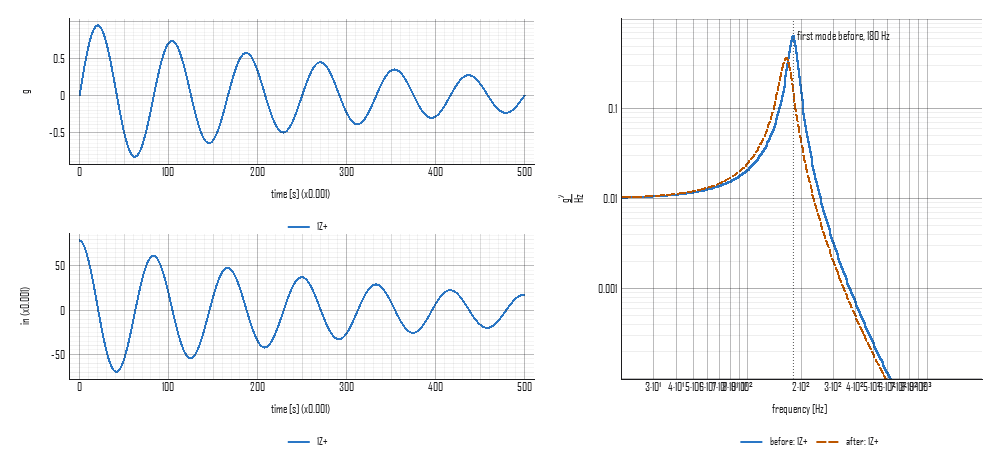
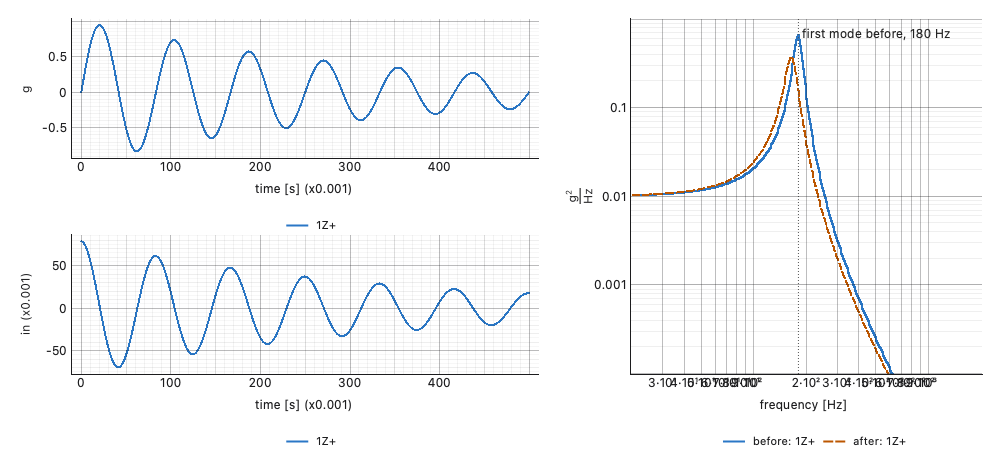
Plot composition: pin is pin_range, and the replication fit draws in a panel
pin is renamed pin_range throughout (definition, __all__, guide,
tests, the figure script). compose's theme defaults to light, not the
application's; figure_plots reads row by row, left to right within a
row. pin_range drops a disableAutoRange that setRange already does.

build_replication_fit set its row stretch through layout.ci, which a
nested panel does not have; it now uses the panel's own grid, as the
signature and transmissibility builders do, with a test drawing it
into a composed figure's panel. A test pins that a failed build still
closes the figure's widget, which empties its scene. The guide's
figure is re-rendered.

diff --git a/tests/test_plot_composition.py b/tests/test_plot_composition.py
@@ -1,7 +1,7 @@
 """Composing a figure of one's own from a script.
 
-`compose`, `as_series`, `figure_plots`, `to_view` and `pin` are the
-public way to draw what the package has no single view for: several
+`compose`, `as_series`, `figure_plots`, `to_view` and `pin_range` are
+the public way to draw what the package has no single view for: several
 readings on one axis, marks and words over them, panels side by side,
 written to a file with no window. Each test pins the thing a figure
 script depends on: the size written, the theme's ground, the plot found
@@ -24,7 +24,7 @@ from visualdynamics.plot import (
     build_plots,
     compose,
     figure_plots,
-    pin,
+    pin_range,
     plot_series,
     to_view,
 )
@@ -170,6 +170,28 @@ def test_the_frequency_axis_is_put_back_when_the_build_fails(qt_app,
     with pytest.raises(RuntimeError, match='the script broke'):
         compose(build, path=tmp_path / 'a.png', frequency_axis='log')
     assert frequency_axis() == before
+
+
+def test_a_build_that_fails_closes_the_figure_it_drew_in(qt_app,
+                                                        tmp_path):
+    """The widget is closed whatever the build does, which empties its
+    scene: while the traceback is held (by a REPL, or here by
+    `pytest.raises`) it holds the widget, and without the close every
+    plot drawn before the failure stayed alive with it."""
+    seen = []
+
+    def build(layout):
+        build_plots(layout, as_series([psd()]))
+        seen.append((layout, len(layout.scene().items())))
+        raise RuntimeError('the script broke')
+
+    with pytest.raises(RuntimeError, match='the script broke'):
+        compose(build, path=tmp_path / 'a.png', size=(300, 200))
+    (widget, drawn_items), = seen
+    assert drawn_items > 0
+    assert widget.items() == []
+    assert widget.closed
+    assert not any(tmp_path.iterdir())
 
 
 def test_a_frequency_axis_that_cannot_hold_is_refused(qt_app, tmp_path):
@@ -375,14 +397,14 @@ def test_a_point_with_no_place_on_the_plot_is_refused(qt_app):
     drawn(build)
 
 
-# ---- pin: one scale for panels meant to be compared ---------------------
+# ---- pin_range: one scale for panels meant to be compared ---------------
 
 
 def test_a_pinned_range_opens_where_it_is_told(qt_app):
     def build(layout):
         build_plots(layout, as_series([psd()]))
         plot = figure_plots(layout)[0]
-        pin(plot, x=(50.0, 1000.0), y=(1e-4, 1.0))
+        pin_range(plot, x=(50.0, 1000.0), y=(1e-4, 1.0))
         view = plot.getViewBox()
         return (view.viewRange(), view.state['limits'],
                 view.state['autoRange'])
@@ -402,7 +424,7 @@ def test_a_range_wider_than_the_data_is_not_clamped_back(qt_app):
     def build(layout):
         build_plots(layout, as_series([psd(0.01)]))
         plot = figure_plots(layout)[0]
-        pin(plot, y=(1e-6, 10.0))
+        pin_range(plot, y=(1e-6, 10.0))
         return plot.getViewBox().viewRange()[1]
 
     np.testing.assert_allclose(drawn(build), [-6.0, 1.0])
@@ -413,7 +435,7 @@ def test_one_axis_pinned_leaves_the_other_alone(qt_app):
         build_plots(layout, as_series([psd()]))
         plot = figure_plots(layout)[0]
         before = plot.getViewBox().state['limits']['yLimits']
-        pin(plot, x=(100.0, 200.0))
+        pin_range(plot, x=(100.0, 200.0))
         return before, plot.getViewBox().state
 
     before, state = drawn(build)
@@ -435,10 +457,10 @@ def test_a_range_that_cannot_be_pinned_is_refused(qt_app, span, words):
         plot = figure_plots(layout)[0]
         before = plot.getViewBox().viewRange()
         if span is None:
-            pin(plot)     # nothing asked, nothing changed
+            pin_range(plot)   # nothing asked, nothing changed
         else:
             with pytest.raises(ValueError, match=words):
-                pin(plot, y=span)
+                pin_range(plot, y=span)
         assert plot.getViewBox().viewRange() == before
 
     drawn(build)

diff --git a/src/visualdynamics/plot/__init__.py b/src/visualdynamics/plot/__init__.py
@@ -2803,7 +2803,7 @@ def compose(build: Callable[[Any], Any], *, theme: Any = None,
         def build(layout):
             build_plots(layout, as_series([psd, specification]))
             plot = figure_plots(layout, 'acceleration**2/frequency')[0]
-            pin(plot, x=(20.0, 2000.0))
+            pin_range(plot, x=(20.0, 2000.0))
 
         compose(build, path='figure.png', theme='light', size=(900, 460))
 
@@ -2825,8 +2825,7 @@ def compose(build: Callable[[Any], Any], *, theme: Any = None,
     build : callable
         Called once with the layout to draw into.
     theme : str or dict, optional
-        'light' or 'dark', or a resolved theme; the application's when
-        omitted.
+        'light' or 'dark', or a resolved theme; light when omitted.
     path : str or path-like, optional
         Where to write the figure. The extension picks the format: .svg,
         or .png (at `EXPORT_DPI` when that is set) or another image
@@ -2887,9 +2886,9 @@ def compose(build: Callable[[Any], Any], *, theme: Any = None,
 def figure_plots(layout: Any, dimension: str | None = None) -> list[Any]:
     """The plots in a figure, in reading order; or those of one quantity.
 
-    Reading order is top to bottom, then left to right, and a nested
-    panel's plots are read where the panel sits. A legend is not a plot
-    and is left out.
+    Reading order is row by row, left to right within a row, and a
+    nested panel's plots are read where the panel sits. A legend is not
+    a plot and is left out.
 
     `build_plots` stacks one plot per quantity, so the plot to draw a
     mark on is found by what it draws, not by its row. With `dimension`
@@ -3005,8 +3004,8 @@ def _view_axis(values: ArrayLike | None, log: bool, name: str) -> Any:
     return float(array) if array.ndim == 0 else array
 
 
-def pin(plot: Any, x: tuple[float, float] | None = None,
-        y: tuple[float, float] | None = None) -> None:
+def pin_range(plot: Any, x: tuple[float, float] | None = None,
+              y: tuple[float, float] | None = None) -> None:
     """Fix a plot's range, in data units, so it opens where it is told.
 
     Panels meant to be compared need one scale. `build_plots` frames
@@ -3045,7 +3044,6 @@ def pin(plot: Any, x: tuple[float, float] | None = None,
                              f'not below {high:g}')
         lo, hi = float(ends[0]), float(ends[1])
         view.setLimits(**{f'{axis}Min': lo, f'{axis}Max': hi})
-        view.disableAutoRange(axis=axis)
         if axis == 'x':
             plot.setXRange(lo, hi, padding=0)
         else:
@@ -5274,8 +5272,8 @@ def plot_replication_segments(measured: Any, specification: Any,
 
 
 __all__ = ['MAX_RECORDS', 'as_series', 'axis_label', 'build_photos',
-           'build_plot', 'build_plots', 'compose', 'figure_plots', 'pin',
-           'plot_bars', 'plot_cmif', 'plot_coherence_map', 'plot_comparison',
-           'plot_data', 'plot_mac', 'plot_photos', 'plot_replication',
-           'plot_replication_segments',
+           'build_plot', 'build_plots', 'compose', 'figure_plots',
+           'pin_range', 'plot_bars', 'plot_cmif', 'plot_coherence_map',
+           'plot_comparison', 'plot_data', 'plot_mac', 'plot_photos',
+           'plot_replication', 'plot_replication_segments',
            'plot_series', 'save_plot', 'to_view']

diff --git a/tests/test_replication_fit.py b/tests/test_replication_fit.py
@@ -668,6 +668,27 @@ def test_the_view_draws_to_a_file(qt_app, tmp_path):
     assert path.stat().st_size > 2000
 
 
+def test_the_view_draws_into_a_panel_of_a_composed_figure(qt_app,
+                                                          tmp_path):
+    """A nested panel is a GraphicsLayout with no `ci`; the rows'
+    shares of the height are set on the panel's own grid."""
+    from visualdynamics.plot import compose
+    from visualdynamics.plot.replication_fit import build_replication_fit
+
+    fit = replication_fit(tone(), rating(), cutoffs=(2.0,))
+    seen = []
+
+    def build(layout):
+        panel = layout.addLayout(row=0, col=1)
+        build_replication_fit(panel, fit, 2.0)
+        seen.append((panel.layout.rowStretchFactor(0),
+                     panel.layout.rowStretchFactor(1),
+                     len(panel.items)))
+
+    compose(build, path=tmp_path / 'panel.png', size=(600, 400))
+    assert seen == [(3, 2, 4)]
+
+
 def test_the_view_refuses_a_cutoff_it_was_not_given(qt_app):
     from visualdynamics.plot import plot_replication_fit
 

diff --git a/tools/make_concept_figures.py b/tools/make_concept_figures.py
@@ -1024,7 +1024,7 @@ def plot_composition():
         compose,
         data_curves,
         figure_plots,
-        pin,
+        pin_range,
         to_view,
     )
 
@@ -1054,7 +1054,7 @@ def plot_composition():
         build_plots(right, as_series([('before', before), ('after', after)]),
                     theme='light')
         asd = figure_plots(right, 'acceleration**2/frequency')[0]
-        pin(asd, x=(20.0, 2000.0), y=(1e-4, 1.0))
+        pin_range(asd, x=(20.0, 2000.0), y=(1e-4, 1.0))
         _, dashed = data_curves(asd)
         pen = pg.mkPen(dashed.opts['pen'])
         pen.setStyle(Qt.PenStyle.DashLine)

diff --git a/src/visualdynamics/plot/replication_fit.py b/src/visualdynamics/plot/replication_fit.py
@@ -191,8 +191,10 @@ def build_replication_fit(layout: Any, fit: Any, cutoff: Any = ..., *,
         if case.cutoff is not None:
             plot.addItem(pg.InfiniteLine(pos=case.cutoff, angle=90,
                                          pen=chosen), ignoreBounds=True)
-    layout.ci.layout.setRowStretchFactor(0, 3)
-    layout.ci.layout.setRowStretchFactor(1, 2)
+    # a nested panel (`compose`) is a GraphicsLayout with no `ci`
+    grid = getattr(layout, 'ci', layout).layout
+    grid.setRowStretchFactor(0, 3)
+    grid.setRowStretchFactor(1, 2)
     return case
 
 

diff --git a/docs/guide/plot-composition.md b/docs/guide/plot-composition.md
@@ -22,19 +22,20 @@ legends and theme, and is written to a file with no window.
   records)`; names prefix the legend entries when more than one object
   is named.
 - **`figure_plots(layout, dimension=None)`** lists the plots in a
-  figure, top to bottom and left to right, or only those drawing one
-  quantity: `figure_plots(layout, 'length')` is the displacement plot of
-  a stack, wherever it landed.
+  figure, row by row and left to right within a row (a nested panel's
+  plots where the panel sits), or only those drawing one quantity:
+  `figure_plots(layout, 'length')` is the displacement plot of a
+  stack, wherever it landed.
 - **`to_view(plot, x=..., y=...)`** converts values in display units to
   the coordinates the plot's view holds. On a log axis the view works in
   decades, so a line, a label or a marker placed without the conversion
   lands at the logarithm of where it was meant to go. A curve added with
   `plot.plot` needs no conversion; pyqtgraph converts it.
-- **`pin(plot, x=(low, high), y=(low, high))`** fixes the range a plot
-  opens at, in display units. A plot drawn by `build_plots` limits zoom
-  and pan to its own data, and a range set straight on the plot is
-  clamped back inside that frame; `pin` makes the pinned range the
-  plot's limit instead.
+- **`pin_range(plot, x=(low, high), y=(low, high))`** fixes the range
+  a plot opens at, in display units. A plot drawn by `build_plots`
+  limits zoom and pan to its own data, and a range set straight on the
+  plot is clamped back inside that frame; `pin_range` makes the pinned
+  range the plot's limit instead.
 
 Panels side by side are nested layouts: `layout.addLayout(row=0,
 col=1)` makes a panel, and `build_plots` draws into it as into a whole
@@ -49,7 +50,8 @@ import pyqtgraph as pg
 from PySide6.QtCore import Qt
 
 from visualdynamics.plot import (as_series, build_plots, compose,
-                                 data_curves, figure_plots, pin, to_view)
+                                 data_curves, figure_plots, pin_range,
+                                 to_view)
 
 def build(layout):
     left = layout.addLayout(row=0, col=0)
@@ -59,7 +61,7 @@ def build(layout):
                 theme='light')
 
     asd = figure_plots(right, 'acceleration**2/frequency')[0]
-    pin(asd, x=(20.0, 2000.0), y=(1e-4, 1.0))
+    pin_range(asd, x=(20.0, 2000.0), y=(1e-4, 1.0))
 
     # the second run is told apart by its line, not only its color
     _, dashed = data_curves(asd)
@@ -112,9 +114,9 @@ drawn where it can:
 - `figure_plots`: a dimension the units do not track (`'displacment'`),
   and a quantity no plot in the figure draws; the message lists the
   quantities it does draw.
-- `to_view` and `pin`: a value that is not finite, a zero or negative
-  value on a log axis, and a range whose low end is not below its high
-  end.
+- `to_view` and `pin_range`: a value that is not finite, a zero or
+  negative value on a log axis, and a range whose low end is not below
+  its high end.
 
 `plot_series` reads its items through `as_series`, so it refuses the
 same items.

diff --git a/docs/guide/plotting.md b/docs/guide/plotting.md
@@ -245,8 +245,9 @@ to export the image.
 When no one view draws the figure you need (two runs on one axis with
 one dashed, a mode marked and named, panels side by side on one
 scale), `visualdynamics.plot.compose` draws it in the same frame the
-standalone plots use, with `as_series`, `figure_plots`, `to_view` and
-`pin` to put the readings, marks and ranges where they belong. See
+standalone plots use, with `as_series`, `figure_plots`, `to_view`
+and `pin_range` to put the readings, marks and ranges where they
+belong. See
 [Composing a figure from a script](plot-composition.md).
 
 ## From a project
